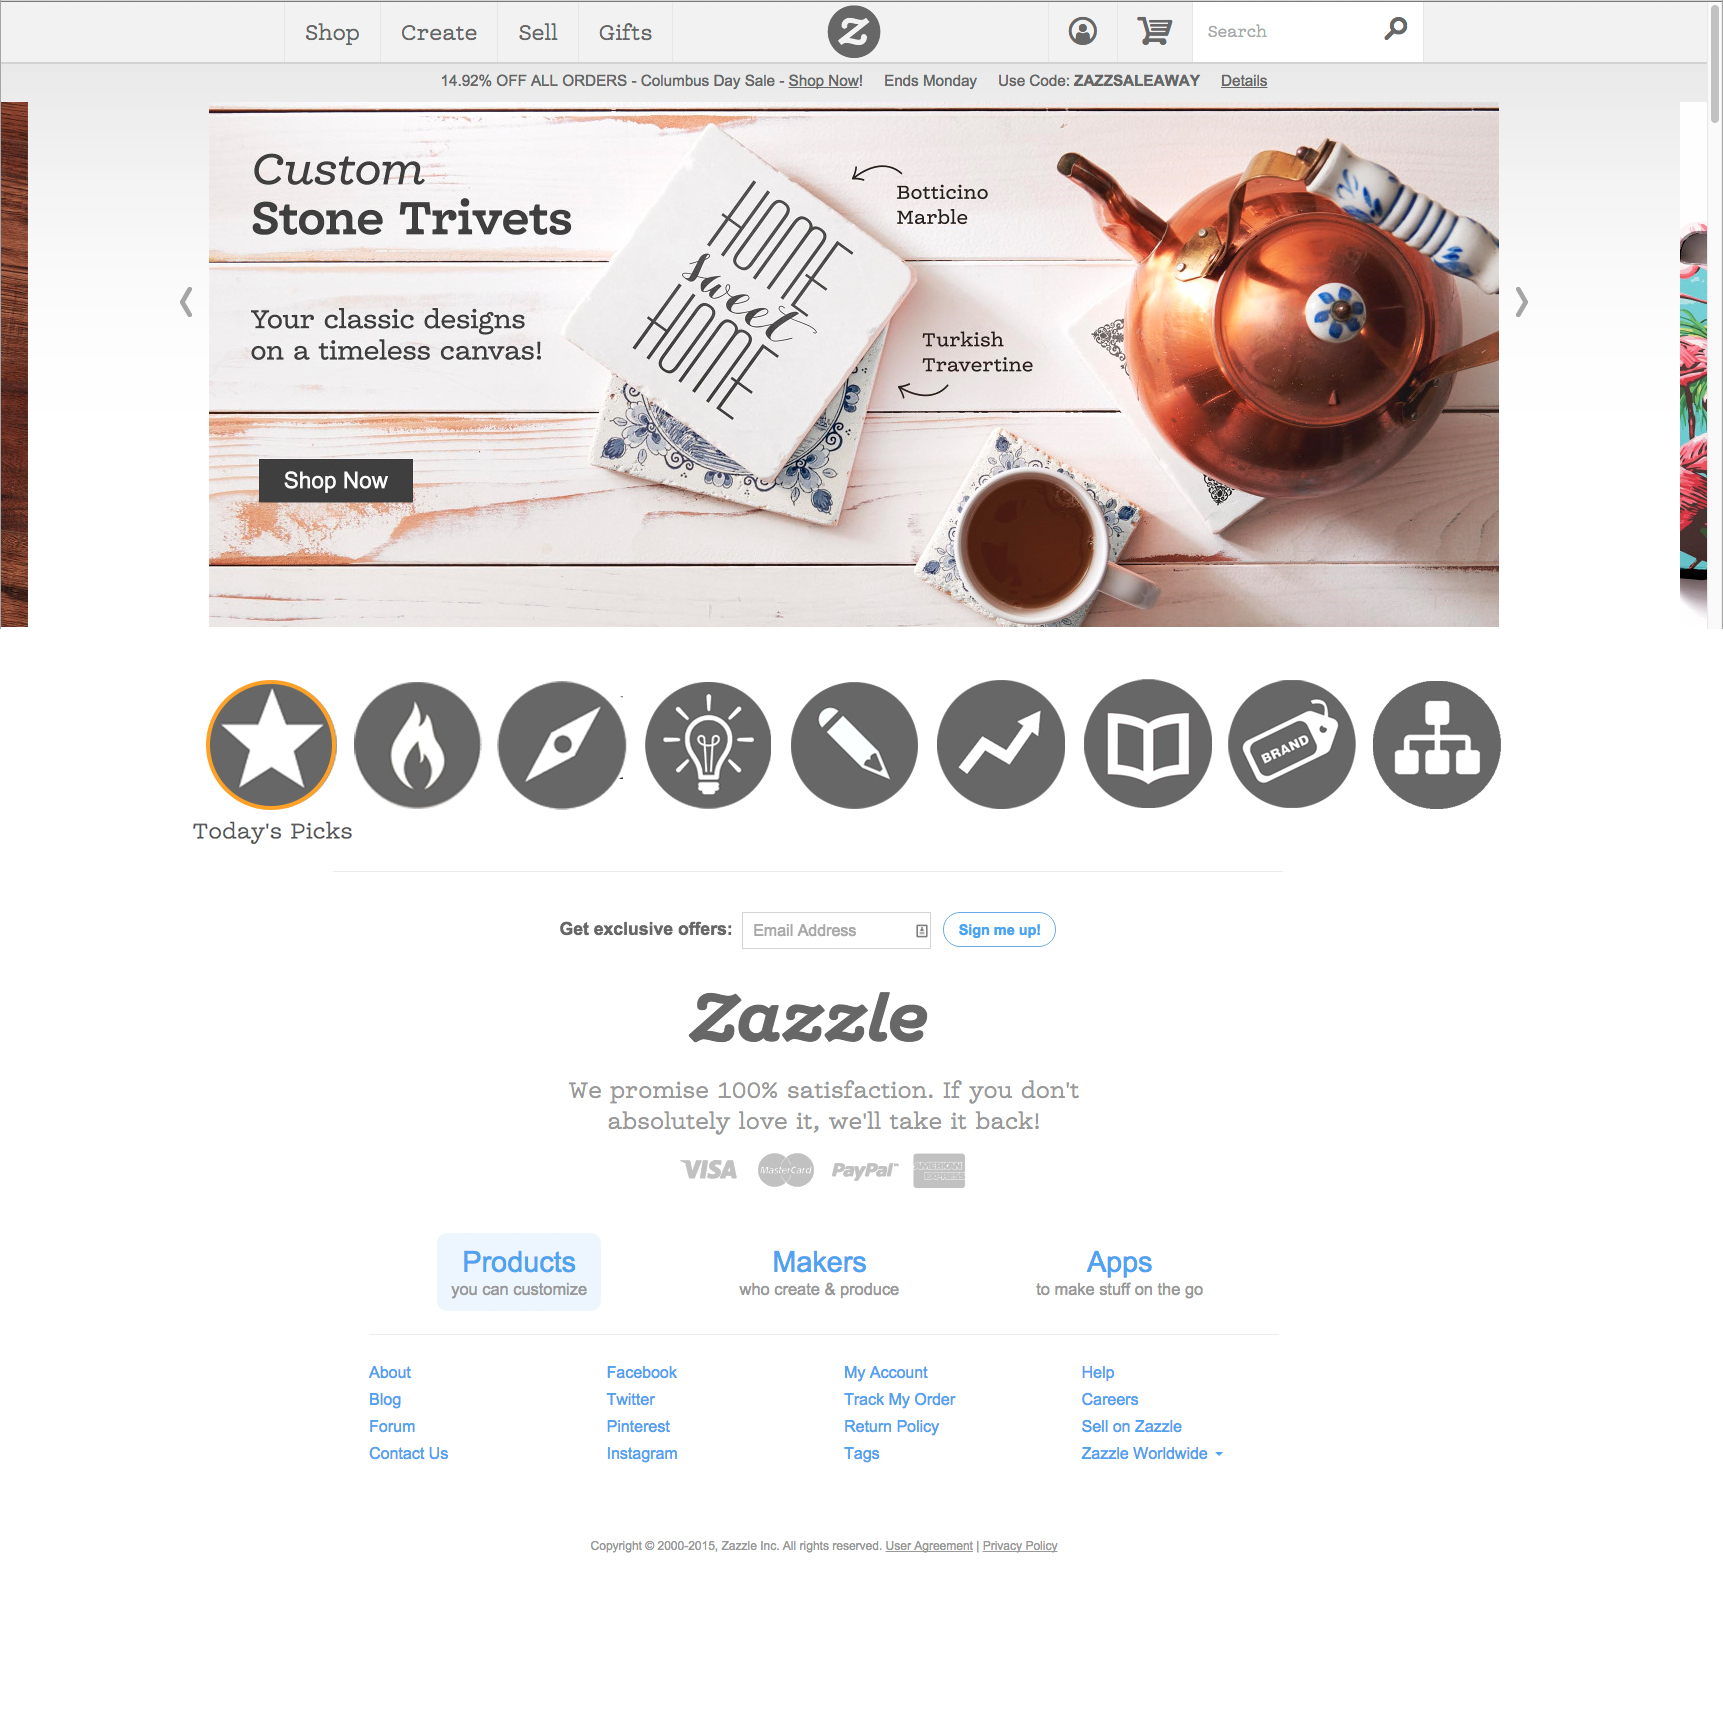
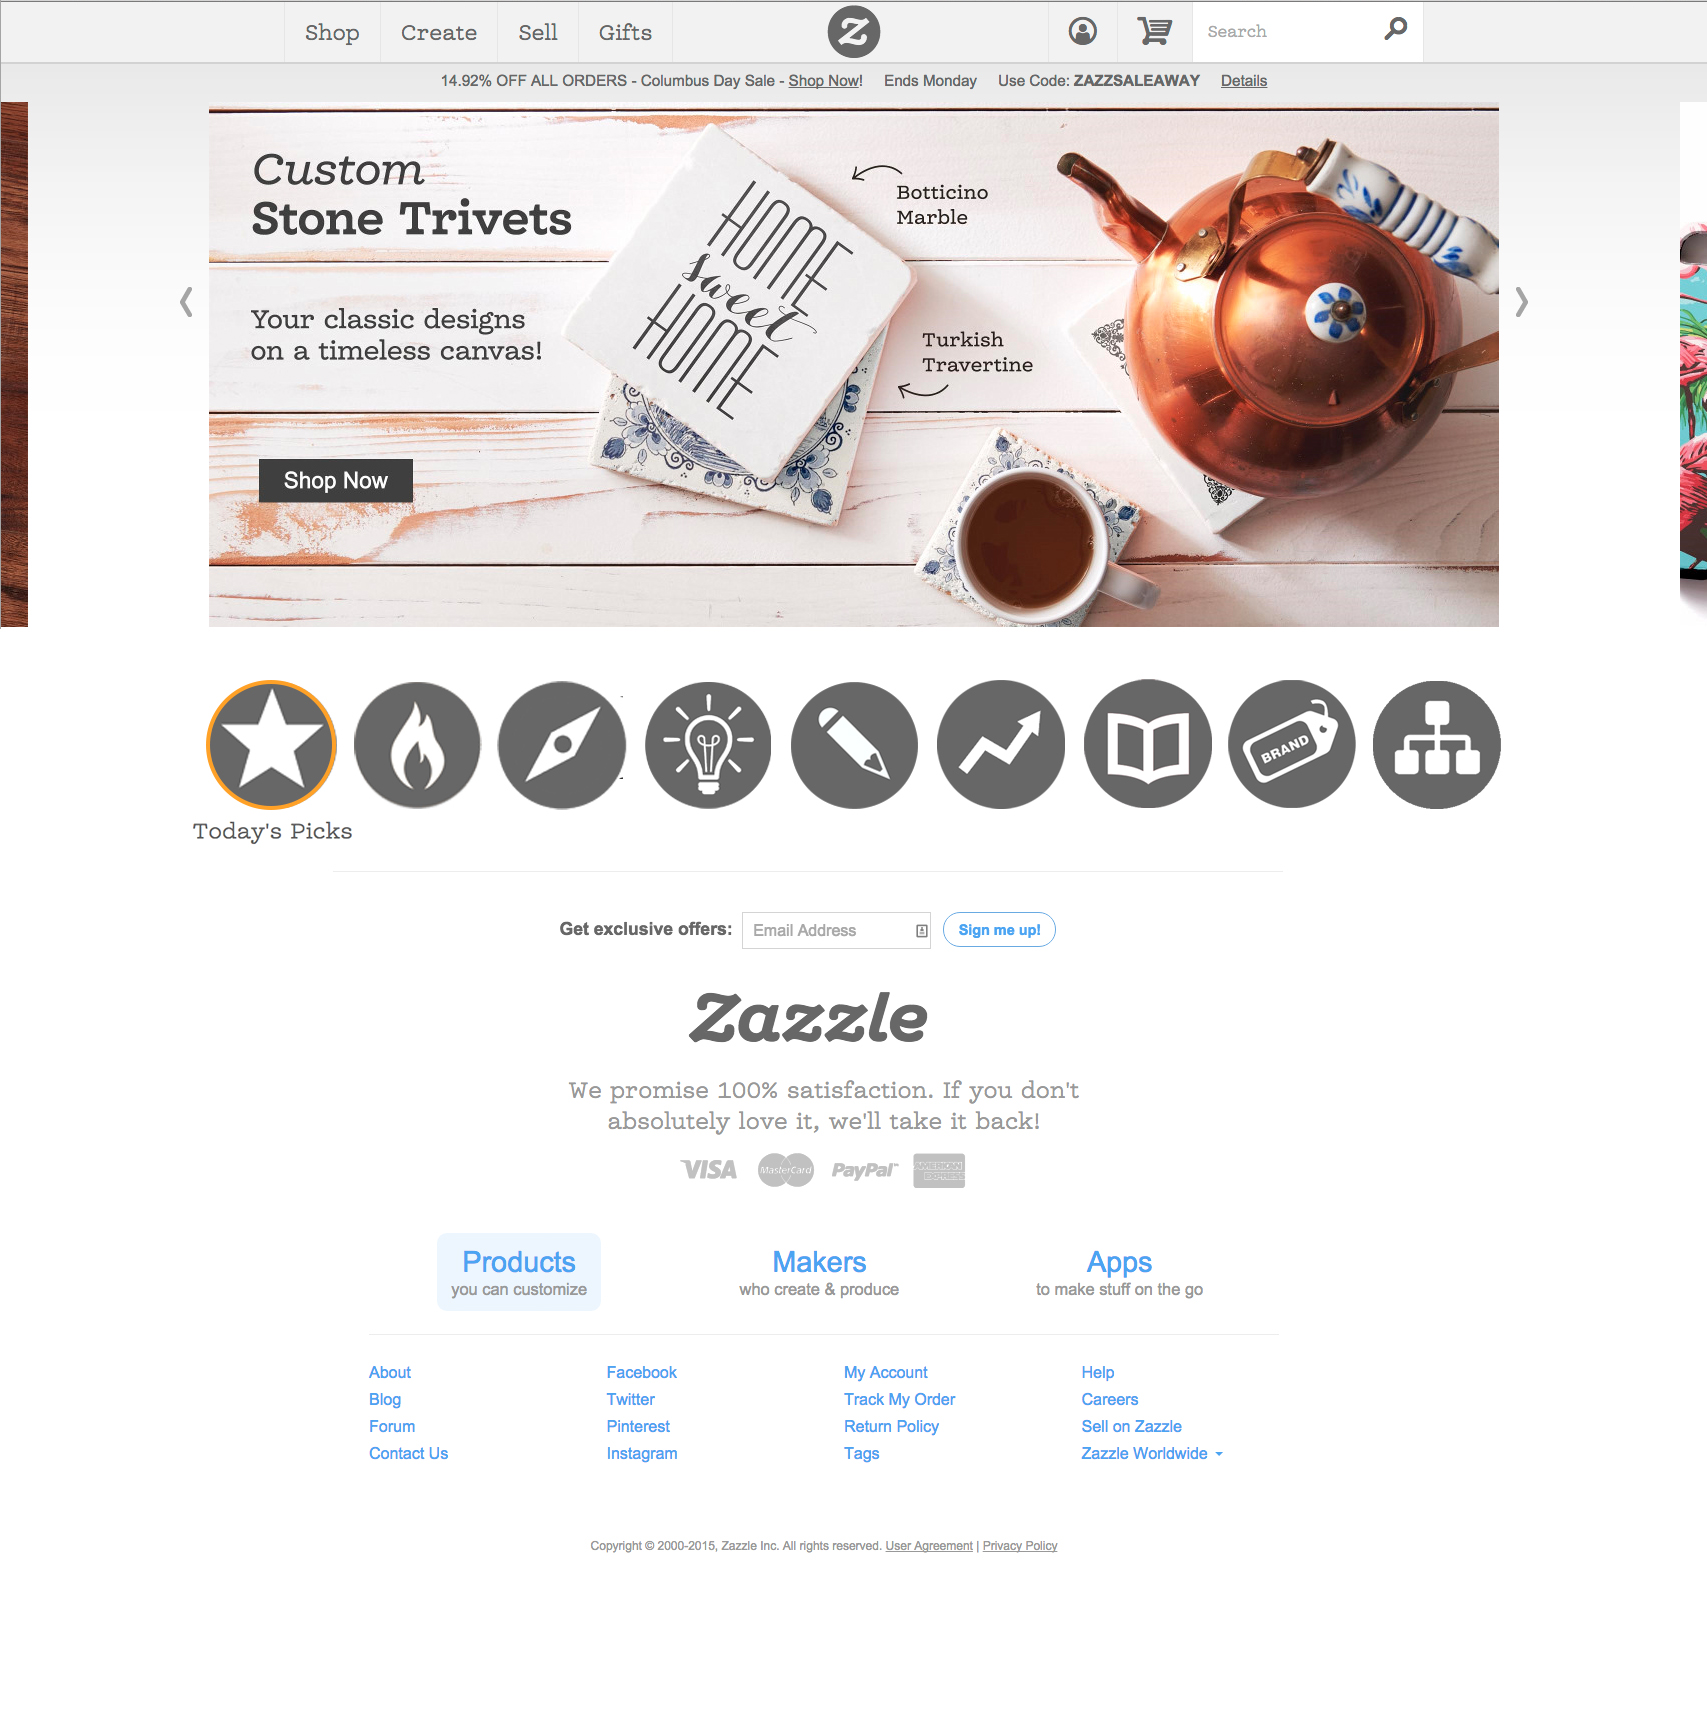
mo zazzle

diff --git a/zazzle.html b/zazzle.html
@@ -1,4 +1,4 @@
 <!DOCTYPE html>
 <html lang="en">
-	<img src='./img/Zazzle.jpg' style="width:100%">
+	<img src='./img/Zazzle-V2.jpg' style="width:100%">
 </html>

diff --git a/zazzle-p2.html b/zazzle-p2.html
@@ -1,0 +1,4 @@
+<!DOCTYPE html>
+<html lang="en">
+	<img src='./img/Zazzle-V2-P2.jpg' style="width:100%">
+</html>
